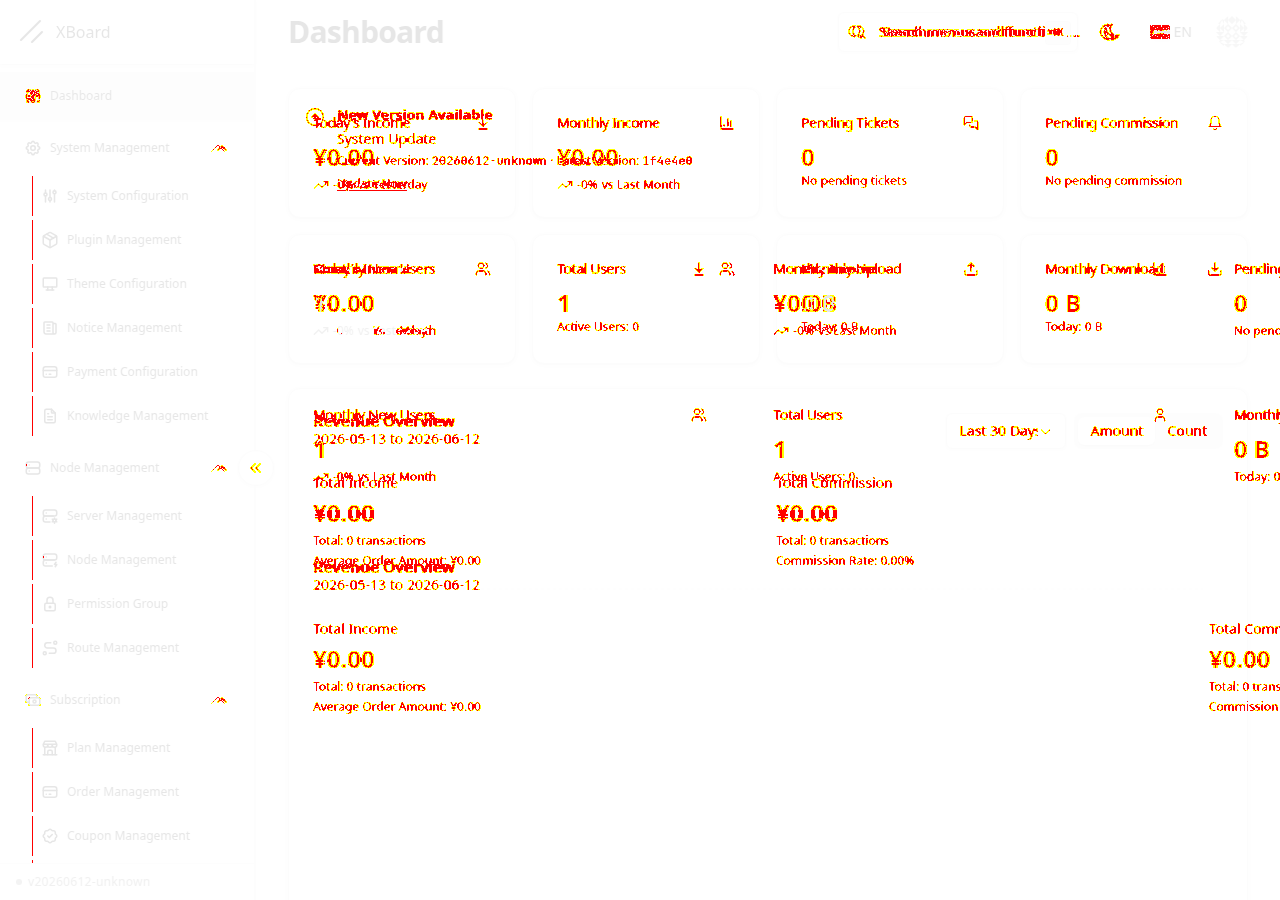
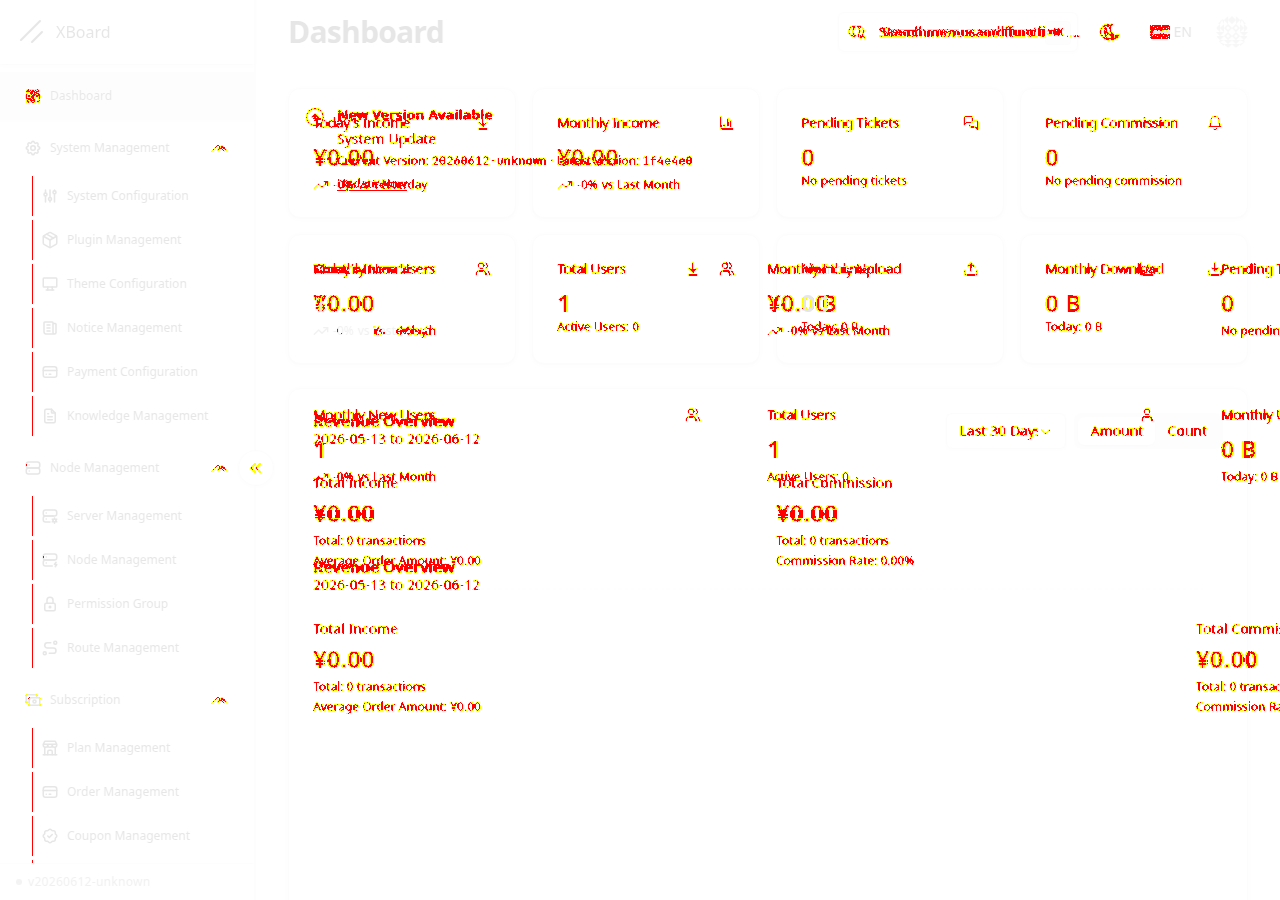
fix(admin): sign-in form inner wrapper, leading-5 labels, forgot row h-9

diff --git a/frontend/admin/src/pages/LoginPage.tsx b/frontend/admin/src/pages/LoginPage.tsx
@@ -119,11 +119,12 @@ export default function LoginPage() {
           </div>
           <div className="grid gap-6">
           <form className="space-y-4" onSubmit={onSubmit}>
+            <div className="space-y-4">
               {error ? <p className="text-sm text-destructive">{error}</p> : null}
               <div className="space-y-2">
                 <Label
                   htmlFor="email"
-                  className="text-sm font-medium leading-none peer-disabled:cursor-not-allowed peer-disabled:opacity-70"
+                  className="text-sm font-medium leading-5 peer-disabled:cursor-not-allowed peer-disabled:opacity-70"
                 >
                   {t('auth.signIn.email')}
                 </Label>
@@ -142,7 +143,7 @@ export default function LoginPage() {
               <div className="space-y-2">
                 <Label
                   htmlFor="password"
-                  className="text-sm font-medium leading-none peer-disabled:cursor-not-allowed peer-disabled:opacity-70"
+                  className="text-sm font-medium leading-5 peer-disabled:cursor-not-allowed peer-disabled:opacity-70"
                 >
                   {t('auth.signIn.password')}
                 </Label>
@@ -156,7 +157,7 @@ export default function LoginPage() {
                   required
                 />
               </div>
-              <div className="flex items-center justify-between">
+              <div className="flex h-9 items-center justify-between">
                 <button
                   type="button"
                   className="inline-flex items-center justify-center px-0 text-sm font-normal text-muted-foreground transition-colors hover:text-primary focus-visible:outline-none focus-visible:ring-1 focus-visible:ring-ring disabled:pointer-events-none disabled:opacity-50"
@@ -172,6 +173,7 @@ export default function LoginPage() {
               >
                 {loading ? t('common.saving') : t('auth.signIn.submit')}
               </button>
+            </div>
           </form>
           </div>
         </div>
